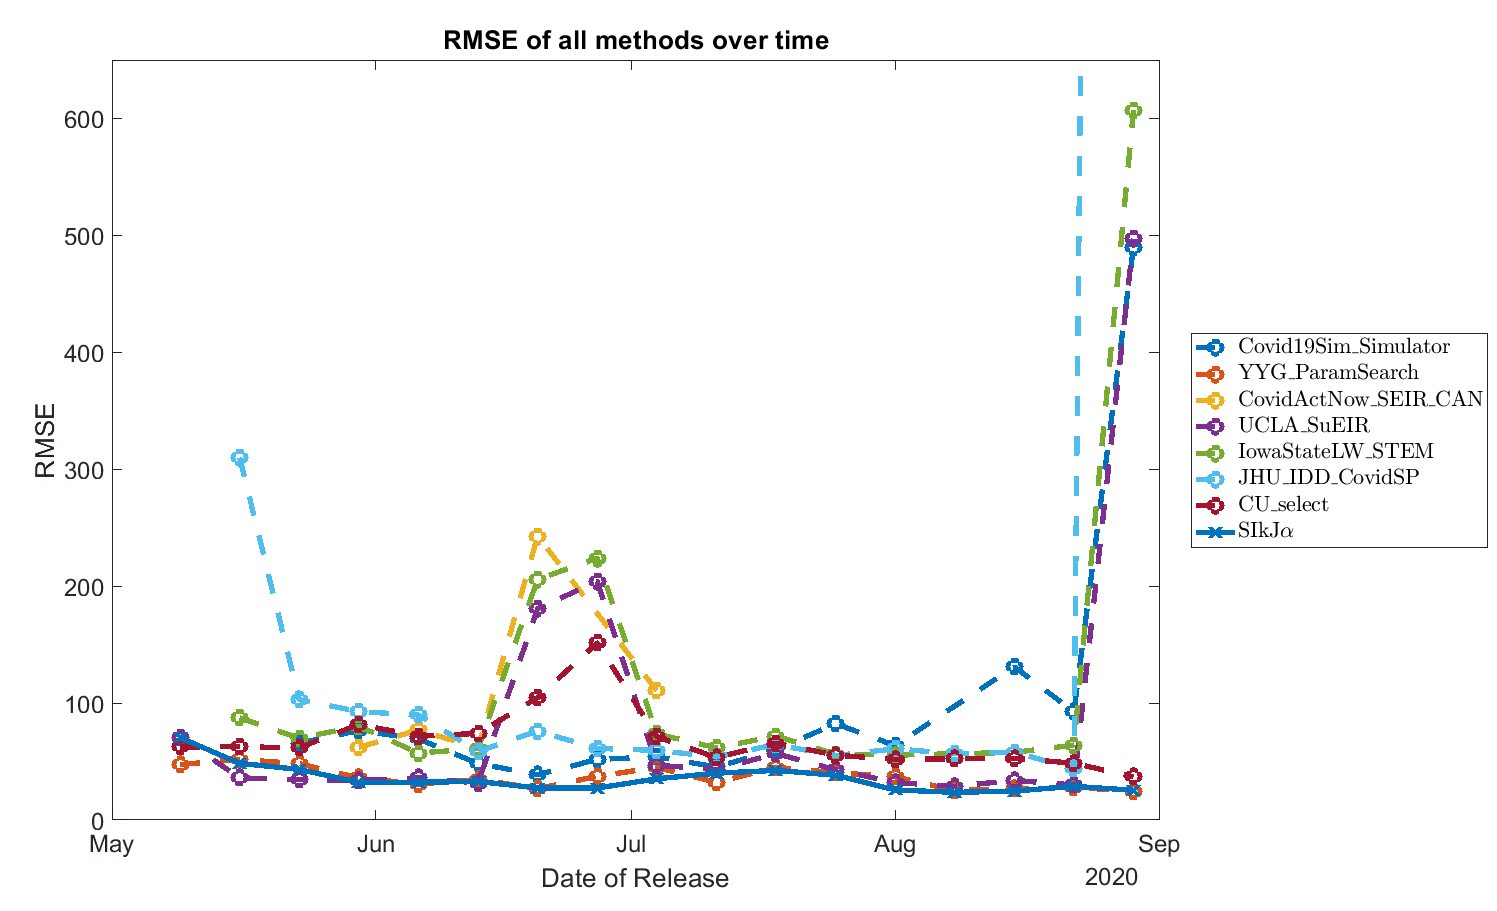
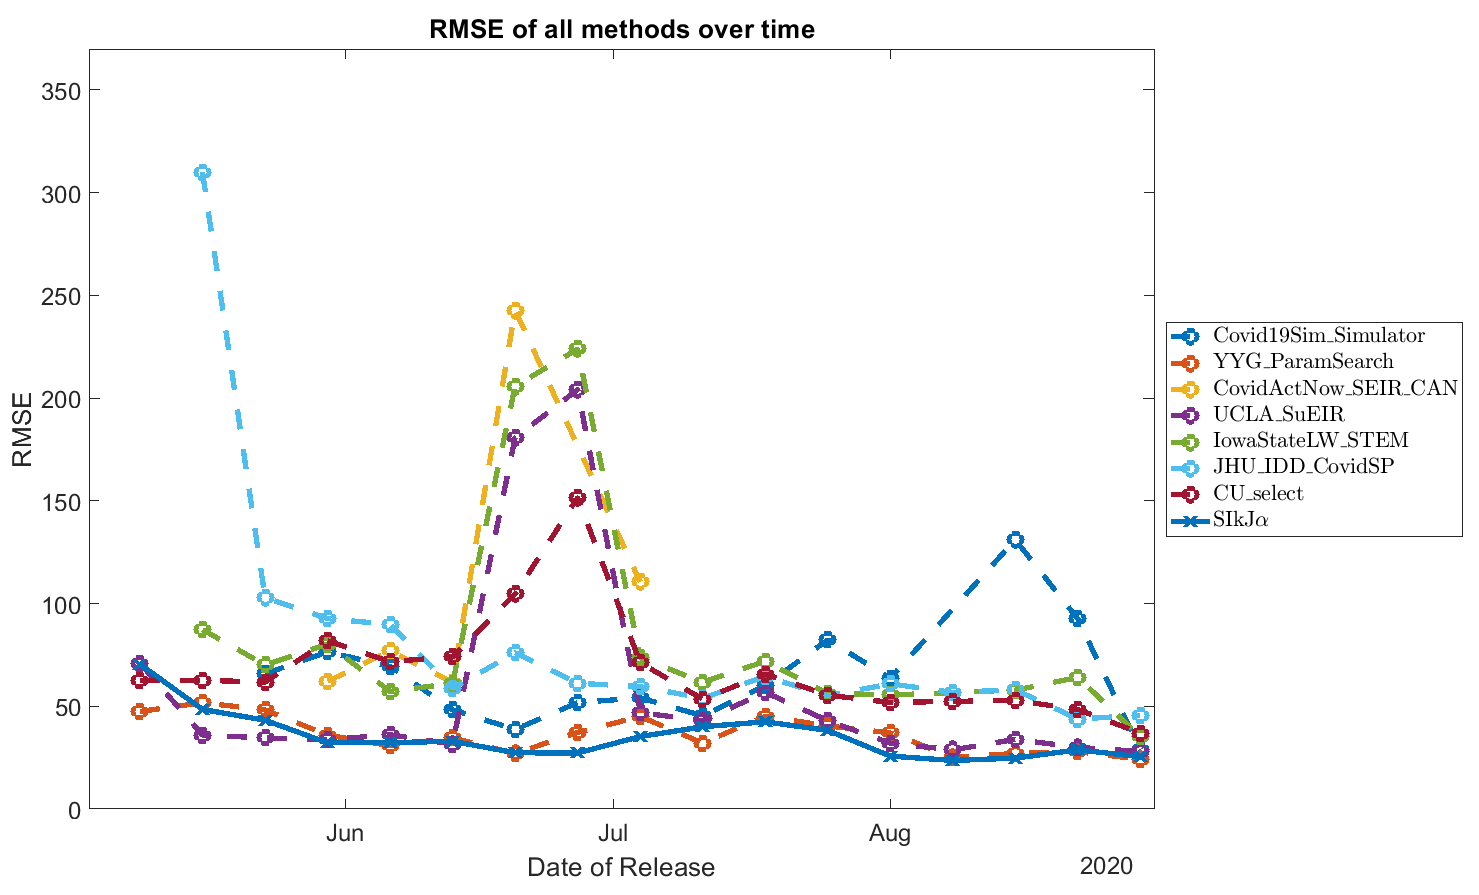
Fixed leaderboard

diff --git a/frontend/src/leaderboard/leaderboard.js b/frontend/src/leaderboard/leaderboard.js
@@ -23,7 +23,21 @@ runningAvgRankings: [
  description: "Based on the SEIR model to make daily projections regarding COVID-19 infections and deaths in 50 US states. The model's contributor is Youyang Gu.",
  link: "http://covid19-projections.com/about/"
 },
- RMSE: 36.34
+ RMSE: 36.3
+},  {
+     model: {
+ name: "UCLA_SuEIR",
+ description: "SEIR model by UCLA Statistical Machine Learning Lab.",
+ link: "https://covid19.uclaml.org/"
+},
+ RMSE: 57.07
+},  {
+     model: {
+ name: "Covid19Sim_Simulator",
+ description: "An interactive tool developed by researchers at Mass General Hospital, Harvard Medical School, Georgia Tech and Boston Medical Center.",
+ link: "https://covid19sim.org/"
+},
+ RMSE: 64.88
 },  {
      model: {
  name: "CU_select",
@@ -33,18 +47,18 @@ runningAvgRankings: [
  RMSE: 68.17
 },  {
      model: {
- name: "UCLA_SuEIR",
- description: "SEIR model by UCLA Statistical Machine Learning Lab.",
- link: "https://covid19.uclaml.org/"
+ name: "JHU_IDD_CovidSP",
+ description: "County-level metapopulation model by Johns Hopkins ID Dynamics COVID-19 Working Group.",
+ link: "https://github.com/HopkinsIDD/COVIDScenarioPipeline"
 },
- RMSE: 84.67
+ RMSE: 80.6
 },  {
      model: {
- name: "Covid19Sim_Simulator",
- description: "An interactive tool developed by researchers at Mass General Hospital, Harvard Medical School, Georgia Tech and Boston Medical Center.",
- link: "https://covid19sim.org/"
+ name: "IowaStateLW_STEM",
+ description: "A COVID19 forecast project led by Lily Wang in Iowa State University.",
+ link: "https://covid19.stat.iastate.edu"
 },
- RMSE: 97.81
+ RMSE: 84.1
 },  {
      model: {
  name: "CovidActNow_SEIR_CAN",
@@ -52,20 +66,6 @@ runningAvgRankings: [
  link: "https://covidactnow.org/"
 },
  RMSE: 110.82
-},  {
-     model: {
- name: "IowaStateLW_STEM",
- description: "A COVID19 forecast project led by Lily Wang in Iowa State University.",
- link: "https://covid19.stat.iastate.edu"
-},
- RMSE: 122.24
-},  {
-     model: {
- name: "JHU_IDD_CovidSP",
- description: "County-level metapopulation model by Johns Hopkins ID Dynamics COVID-19 Working Group.",
- link: "https://github.com/HopkinsIDD/COVIDScenarioPipeline"
-},
- RMSE: 419.38
 },],
 recentRankings: [
     {
@@ -74,7 +74,7 @@ recentRankings: [
  description: "Based on the SEIR model to make daily projections regarding COVID-19 infections and deaths in 50 US states. The model's contributor is Youyang Gu.",
  link: "http://covid19-projections.com/about/"
 },
- RMSE: 24.77
+ RMSE: 24.2
 },  {
      model: {
  name: "SIkJa_USC",
@@ -84,39 +84,39 @@ recentRankings: [
  RMSE: 25.41
 },  {
      model: {
- name: "CU_select",
- description: "A metapopulation county-level SEIR model by Columbia University.",
- link: "https://blogs.cuit.columbia.edu/jls106/publications/covid-19-findings-simulations/"
+ name: "UCLA_SuEIR",
+ description: "SEIR model by UCLA Statistical Machine Learning Lab.",
+ link: "https://covid19.uclaml.org/"
 },
- RMSE: 36.9
+ RMSE: 28.03
 },  {
      model: {
  name: "Covid19Sim_Simulator",
  description: "An interactive tool developed by researchers at Mass General Hospital, Harvard Medical School, Georgia Tech and Boston Medical Center.",
  link: "https://covid19sim.org/"
 },
- RMSE: 489.76
-},  {
-     model: {
- name: "UCLA_SuEIR",
- description: "SEIR model by UCLA Statistical Machine Learning Lab.",
- link: "https://covid19.uclaml.org/"
-},
- RMSE: 497.16
+ RMSE: 28.83
 },  {
      model: {
  name: "IowaStateLW_STEM",
  description: "A COVID19 forecast project led by Lily Wang in Iowa State University.",
  link: "https://covid19.stat.iastate.edu"
 },
- RMSE: 607.15
+ RMSE: 35.14
+},  {
+     model: {
+ name: "CU_select",
+ description: "A metapopulation county-level SEIR model by Columbia University.",
+ link: "https://blogs.cuit.columbia.edu/jls106/publications/covid-19-findings-simulations/"
+},
+ RMSE: 36.93
 },  {
      model: {
  name: "JHU_IDD_CovidSP",
  description: "County-level metapopulation model by Johns Hopkins ID Dynamics COVID-19 Working Group.",
  link: "https://github.com/HopkinsIDD/COVIDScenarioPipeline"
 },
- RMSE: 5466.04
+ RMSE: 45.56
 },  {
      model: {
  name: "CovidActNow_SEIR_CAN",
